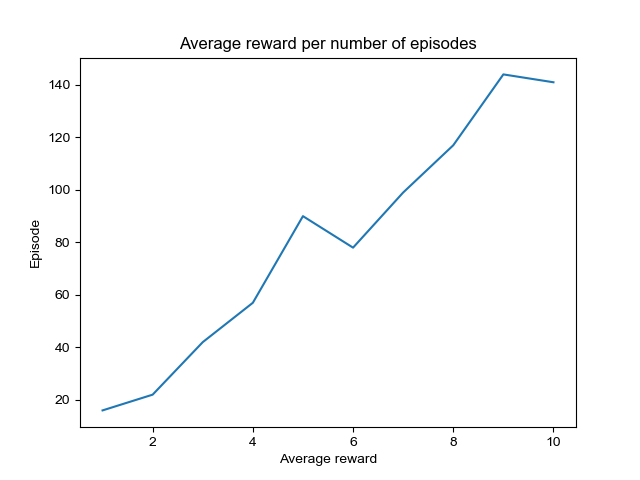
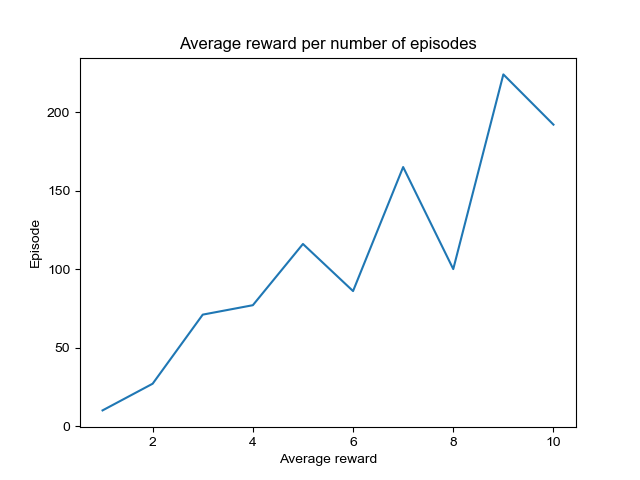
state aggregation RCRAAM added

diff --git a/codebase/adrel/simulate.py b/codebase/adrel/simulate.py
@@ -1,17 +1,19 @@
 """
 Adversarial RL framework
 
-**Notes:
+**Note:
 
 - ranges all START from 1 to STOP + 1
 """
 import time
+import csv
 
 import numpy as np
 import gym
 import tqdm
 import matplotlib.pyplot as plt
 import seaborn as sns
+import pandas as pd
 
 from agent_policy import AgentPolicy
 from agent_dqn import AgentDQN
@@ -71,8 +73,10 @@ IS_RENDER = False
 
 EPISODES = 10
 SEQ_STEPS = 1
-PHYS_EPISODES = 300
-PHYS_SEQ_STEPS = 25
+# PHYS_EPISODES = 300
+PHYS_EPISODES = 0
+# PHYS_SEQ_STEPS = 25
+PHYS_SEQ_STEPS = 0
 
 EPISODE_STEPS = 200
 BATCH_SIZE = 16
@@ -113,40 +117,54 @@ def play_raam(env, policy_info, num_episodes):
 
 
 def play_dqn(env, num_episodes, file_name=None, load=False):
+    # state- and action- space
     space_size_state = env.observation_space.shape[0]
     space_size_action = env.action_space.n
+
+    # DQN agent initialization
     agent = AgentDQN(space_size_state, space_size_action)
-    if (file_name is not None) and (load is not False):
+
+    # load a pre-trained model
+    if (file_name is not None) and load:
         agent.load(file_name + '.h5')
+
     _game_rewards = dict()
+    samples = []
     for episode in range(1, num_episodes + 1):
         # returns the initial observation (state)
         state = env.reset()
         state = np.reshape(state, [1, space_size_state])
+
         for step in range(1, EPISODE_STEPS + 1):
             if IS_RENDER:
                 env.render()
+
             action = agent.act(state)
+
             next_state, reward, done, _ = env.step(action)
+
             reward = reward if not done else agent.penalty
             next_state = np.reshape(next_state, [1, space_size_state])
+
             agent.remember(state, action, reward, next_state, done)
+            samples.append((step - 1,) + tuple(state.reshape(space_size_state)) + (action,) + (reward,))
             state = next_state
-            if done:
+
+            # Experience Replay - network
+            agent.replay(BATCH_SIZE)
+
+            if done or step == EPISODE_STEPS:
                 print("episode: {0}/{1}, reward: {2}, e: {3:.2}"
                       .format(episode, num_episodes, step, agent.epsilon))
                 _game_rewards[episode] = step
                 break
-            # Experience Replay
-            agent.replay(BATCH_SIZE)
-            if step == EPISODE_STEPS:
-                print("episode: {0}/{1}, reward: {2}, e: {3:.2}"
-                      .format(episode, num_episodes, step, agent.epsilon))
-                _game_rewards[episode] = step
+        # store the trained model
         if (file_name is not None) and (episode % 10 == 0):
             agent.save(file_name + '.h5')
+
     env.close()
-    return _game_rewards
+
+    return _game_rewards, samples
 
 
 if __name__ == "__main__":
@@ -161,23 +179,38 @@ if __name__ == "__main__":
     # t_start = time.perf_counter()
     # play_raam()
 
-    print('***** DQN training...')
+    print('======= DQN Training =======')
     env_stock = gym.make(GYM_ENV)
     name_env = env_stock.unwrapped.spec.id
     control_alg = 'DQN'
     rewards_total = dict()
-    file_name_stock = 'outputs/{0}_{1}_batchsize-{2}_episodes-{3}_step-{4}'.format(control_alg, name_env,
-                                                                                   BATCH_SIZE, EPISODES,
-                                                                                   SEQ_STEPS)
+    file_name_stock = 'outputs/{0}_{1}_batchsize-' \
+                      '{2}_episodes-{3}_step-{4}'.format(control_alg, name_env,
+                                                         BATCH_SIZE, EPISODES,
+                                                         SEQ_STEPS)
+    # sequential training
+    # restarts from the first episode for an episode number
     t_start = time.perf_counter()
+    samples_total = []
     for seq_ep in range(SEQ_STEPS if SEQ_RUN else EPISODES, EPISODES + 1, SEQ_STEPS):
-        game_rewards = play_dqn(env_stock, seq_ep, file_name_stock, load=IS_LOAD)
+        game_rewards, ep_sample = play_dqn(env_stock, seq_ep, file_name_stock, load=IS_LOAD)
+        samples_total.extend(ep_sample)
+
+        # episode reward calculations
         game_reward_total = sum(game_rewards.values())
         game_reward_avg = game_reward_total / seq_ep
         print("\t Average reward per episode {:.2f}".format(game_reward_avg))
+
         rewards_total[seq_ep] = game_reward_total
-    print('\n', '-' * 10, 'Summary', '-' * 10)
     t_finish = timing(t_start)
+    print('\n', '-' * 10, 'Summary', '-' * 10)
+
+    with open('samples.csv', mode='w') as samples_handle:
+        csv_writer = csv.writer(samples_handle, delimiter=',')
+
+        csv_writer.writerows(samples_total)
+
+    # total episodes reward calculations
     sum_rewards_total = sum(rewards_total.values())
     avg_rewards_total = sum_rewards_total / sum(rewards_total.keys())
     time_per_step = t_finish / sum_rewards_total
@@ -185,7 +218,8 @@ if __name__ == "__main__":
     print('*** Sum of total rewards: {}'.format(sum_rewards_total))
     print('*** Average total reward: {:.2f}'.format(avg_rewards_total))
 
-    '''--------------------Plotting--------------------'''
+    '''-------Plotting-------'''
+    # axises
     sequence_episode = np.array(list(rewards_total.keys()))
     sequence_reward = np.array(list(rewards_total.values()))
 
@@ -199,40 +233,45 @@ if __name__ == "__main__":
     plt.savefig(file_name_stock + '.png')
     plt.show()
 
-    ''' ====================Physics==================== '''
-    print('\n', '=' * 30, '\n')
-    print('***** Customized physics...')
+    print('''======= Manipulated Physics =======''')
 
     masses_cart = np.array([0.1, 0.5, 1.0, 1.5, 2])
     lengths_pole = np.array([0.05, 0.25, 0.5, 0.75])
-    phys_return = np.zeros((len(masses_cart), len(lengths_pole)))
+    physics_return = np.zeros((len(masses_cart), len(lengths_pole)))
 
     env_custom = gym.make(GYM_ENV)
     name_env = env_custom.unwrapped.spec.id
-    file_name_custom = 'outputs/{0}_{1}-custom_batchsize-{2}_episodes-{3}_step-{4}_{5}x{6}'.format(control_alg,
-                                                                                                   name_env,
-                                                                                                   BATCH_SIZE,
-                                                                                                   PHYS_EPISODES,
-                                                                                                   PHYS_SEQ_STEPS,
-                                                                                                   len(masses_cart),
-                                                                                                   len(lengths_pole))
+    file_name_custom = 'outputs/{0}_{1}-custom_batchsize-' \
+                       '{2}_episodes-{3}_step-{4}_{5}x{6}'.format(control_alg,
+                                                                  name_env,
+                                                                  BATCH_SIZE,
+                                                                  PHYS_EPISODES,
+                                                                  PHYS_SEQ_STEPS,
+                                                                  len(masses_cart),
+                                                                  len(lengths_pole))
+    # for each combination of env physics variations
     t_start = time.perf_counter()
     for i, mc in enumerate(masses_cart):
         for j, lp in enumerate(lengths_pole):
-            print('** \t cart mass:{0} - pole length:{1}'.format(mc, lp))
+            print('\t --- #{0} cart mass:{1} - #{2} pole length:{3}'.format(i, mc, j, lp))
+            # setting the initial physics values
             env_custom.masscart = mc
             env_custom.length = lp
+
             phys_rewards_total = dict()
             for phys_seq_ep in range(PHYS_SEQ_STEPS if SEQ_RUN else PHYS_EPISODES, PHYS_EPISODES + 1, PHYS_SEQ_STEPS):
                 phys_game_rewards = play_dqn(env_custom, phys_seq_ep)
+
+                # reward calculations
                 phys_game_reward_total = sum(phys_game_rewards.values())
                 phys_game_reward_avg = phys_game_reward_total / phys_seq_ep
                 print("\t Average reward per episode {:.2f}".format(phys_game_reward_avg))
-            phys_return[i][j] = round(phys_game_reward_total / phys_seq_ep, ndigits=3)
+
+            physics_return[i][j] = round(phys_game_reward_total / phys_seq_ep, ndigits=3)
     t_finish = timing(t_start)
 
-    '''--------------------Plotting--------------------'''
-    sns.heatmap(phys_return, annot=True, fmt='.2f', xticklabels=lengths_pole, yticklabels=masses_cart)
+    '''-------Plotting-------'''
+    sns.heatmap(physics_return, annot=True, fmt='.2f', xticklabels=lengths_pole, yticklabels=masses_cart)
     plt.title('Average rewards per number of episodes')
     plt.xlabel('Pole length')
     plt.ylabel('Cart mass')

diff --git a/codebase/adrel/state_gen.py b/codebase/adrel/state_gen.py
@@ -1,20 +1,28 @@
 import random
 import gym
+import csv
+
 env = gym.make('CartPole-v1')
 random.seed(2018)
 
 laststate = None
 samples = []
 for k in range(20):
-  env.reset()
-  done = False
-  for i in range(100):
-    #env.render()
-    action = env.action_space.sample()
-    if i > 0:
-      samples.append( (i-1,) + tuple(state) + (action,) + (reward,) )
-    # stop only after saving the state
-    if done:
-      break
-    [state,reward,done,info] = env.step(action) # take a random action
+    env.reset()
+    done = False
+    for i in range(100):
+        # env.render()
+        action = env.action_space.sample()
+        if i > 0:
+            samples.append((i - 1,) + tuple(state) + (action,) + (reward,))
+            # stop only after saving the state
+        if done:
+            break
+        [state, reward, done, info] = env.step(action)  # take a random action
 env.close()
+
+
+with open('samples_gen.csv', mode='w') as samples_handle:
+    csv_writer = csv.writer(samples_handle, delimiter=',')
+
+    csv_writer.writerows(samples)
